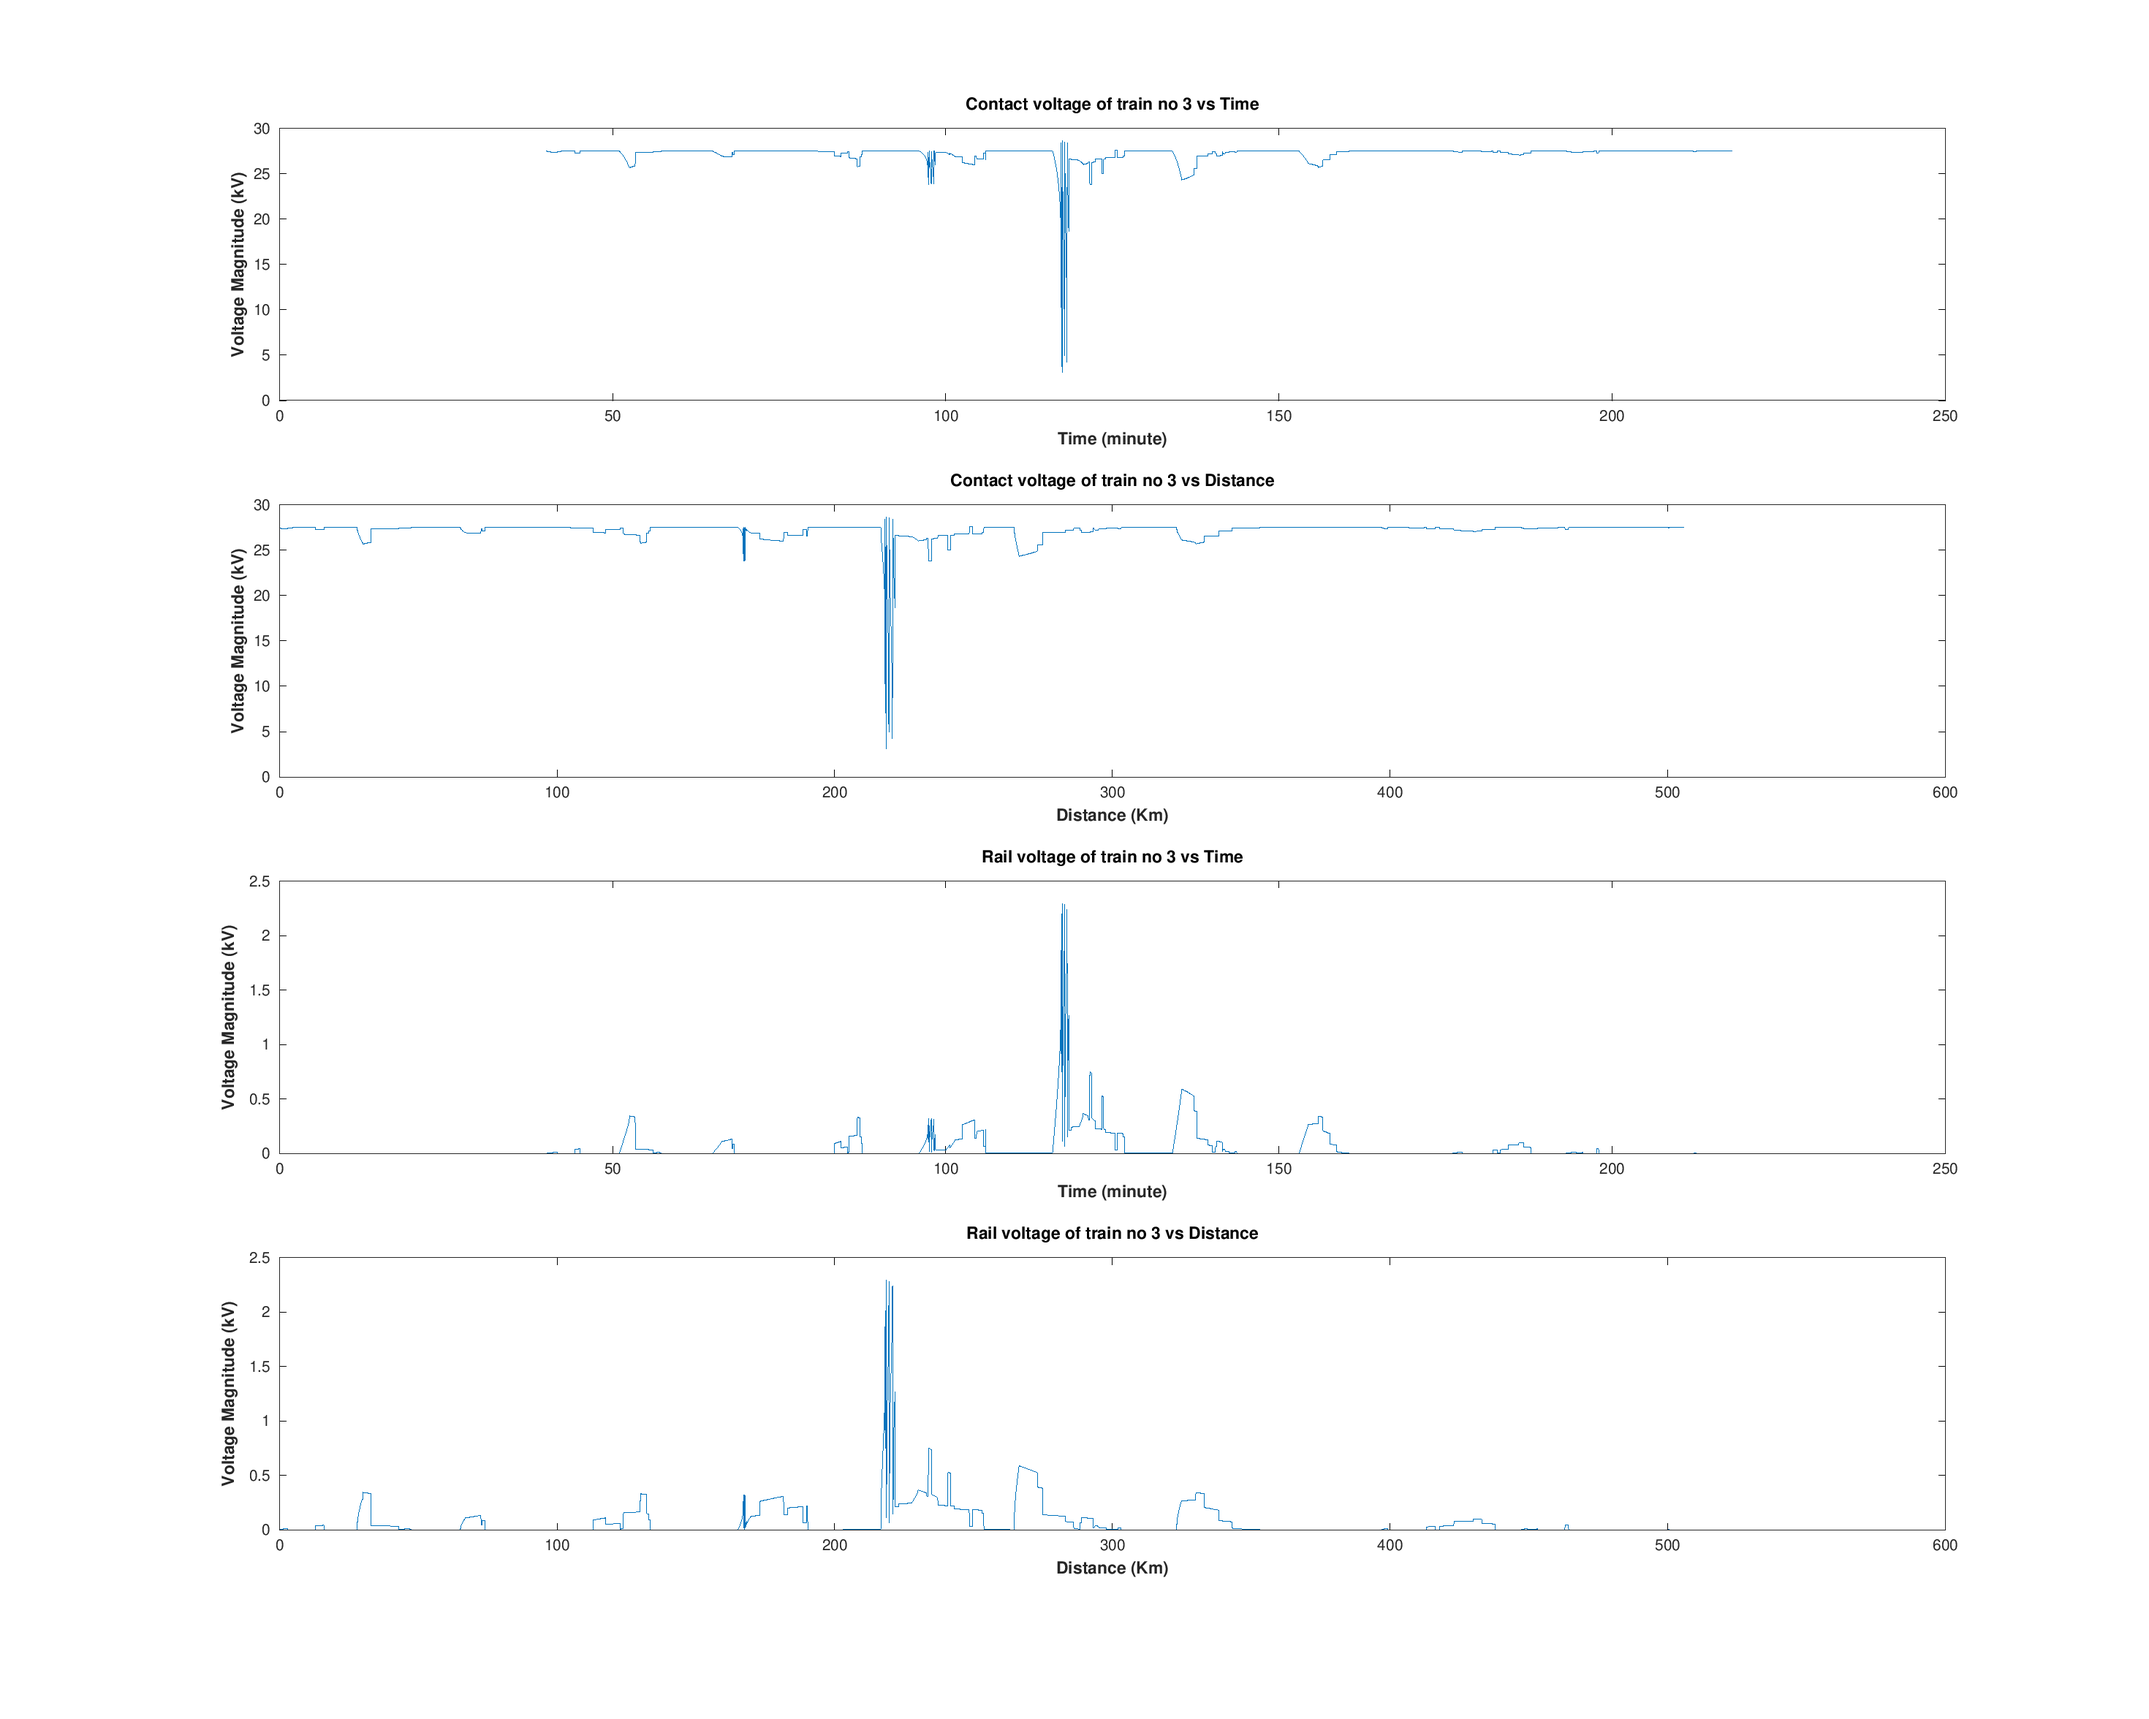
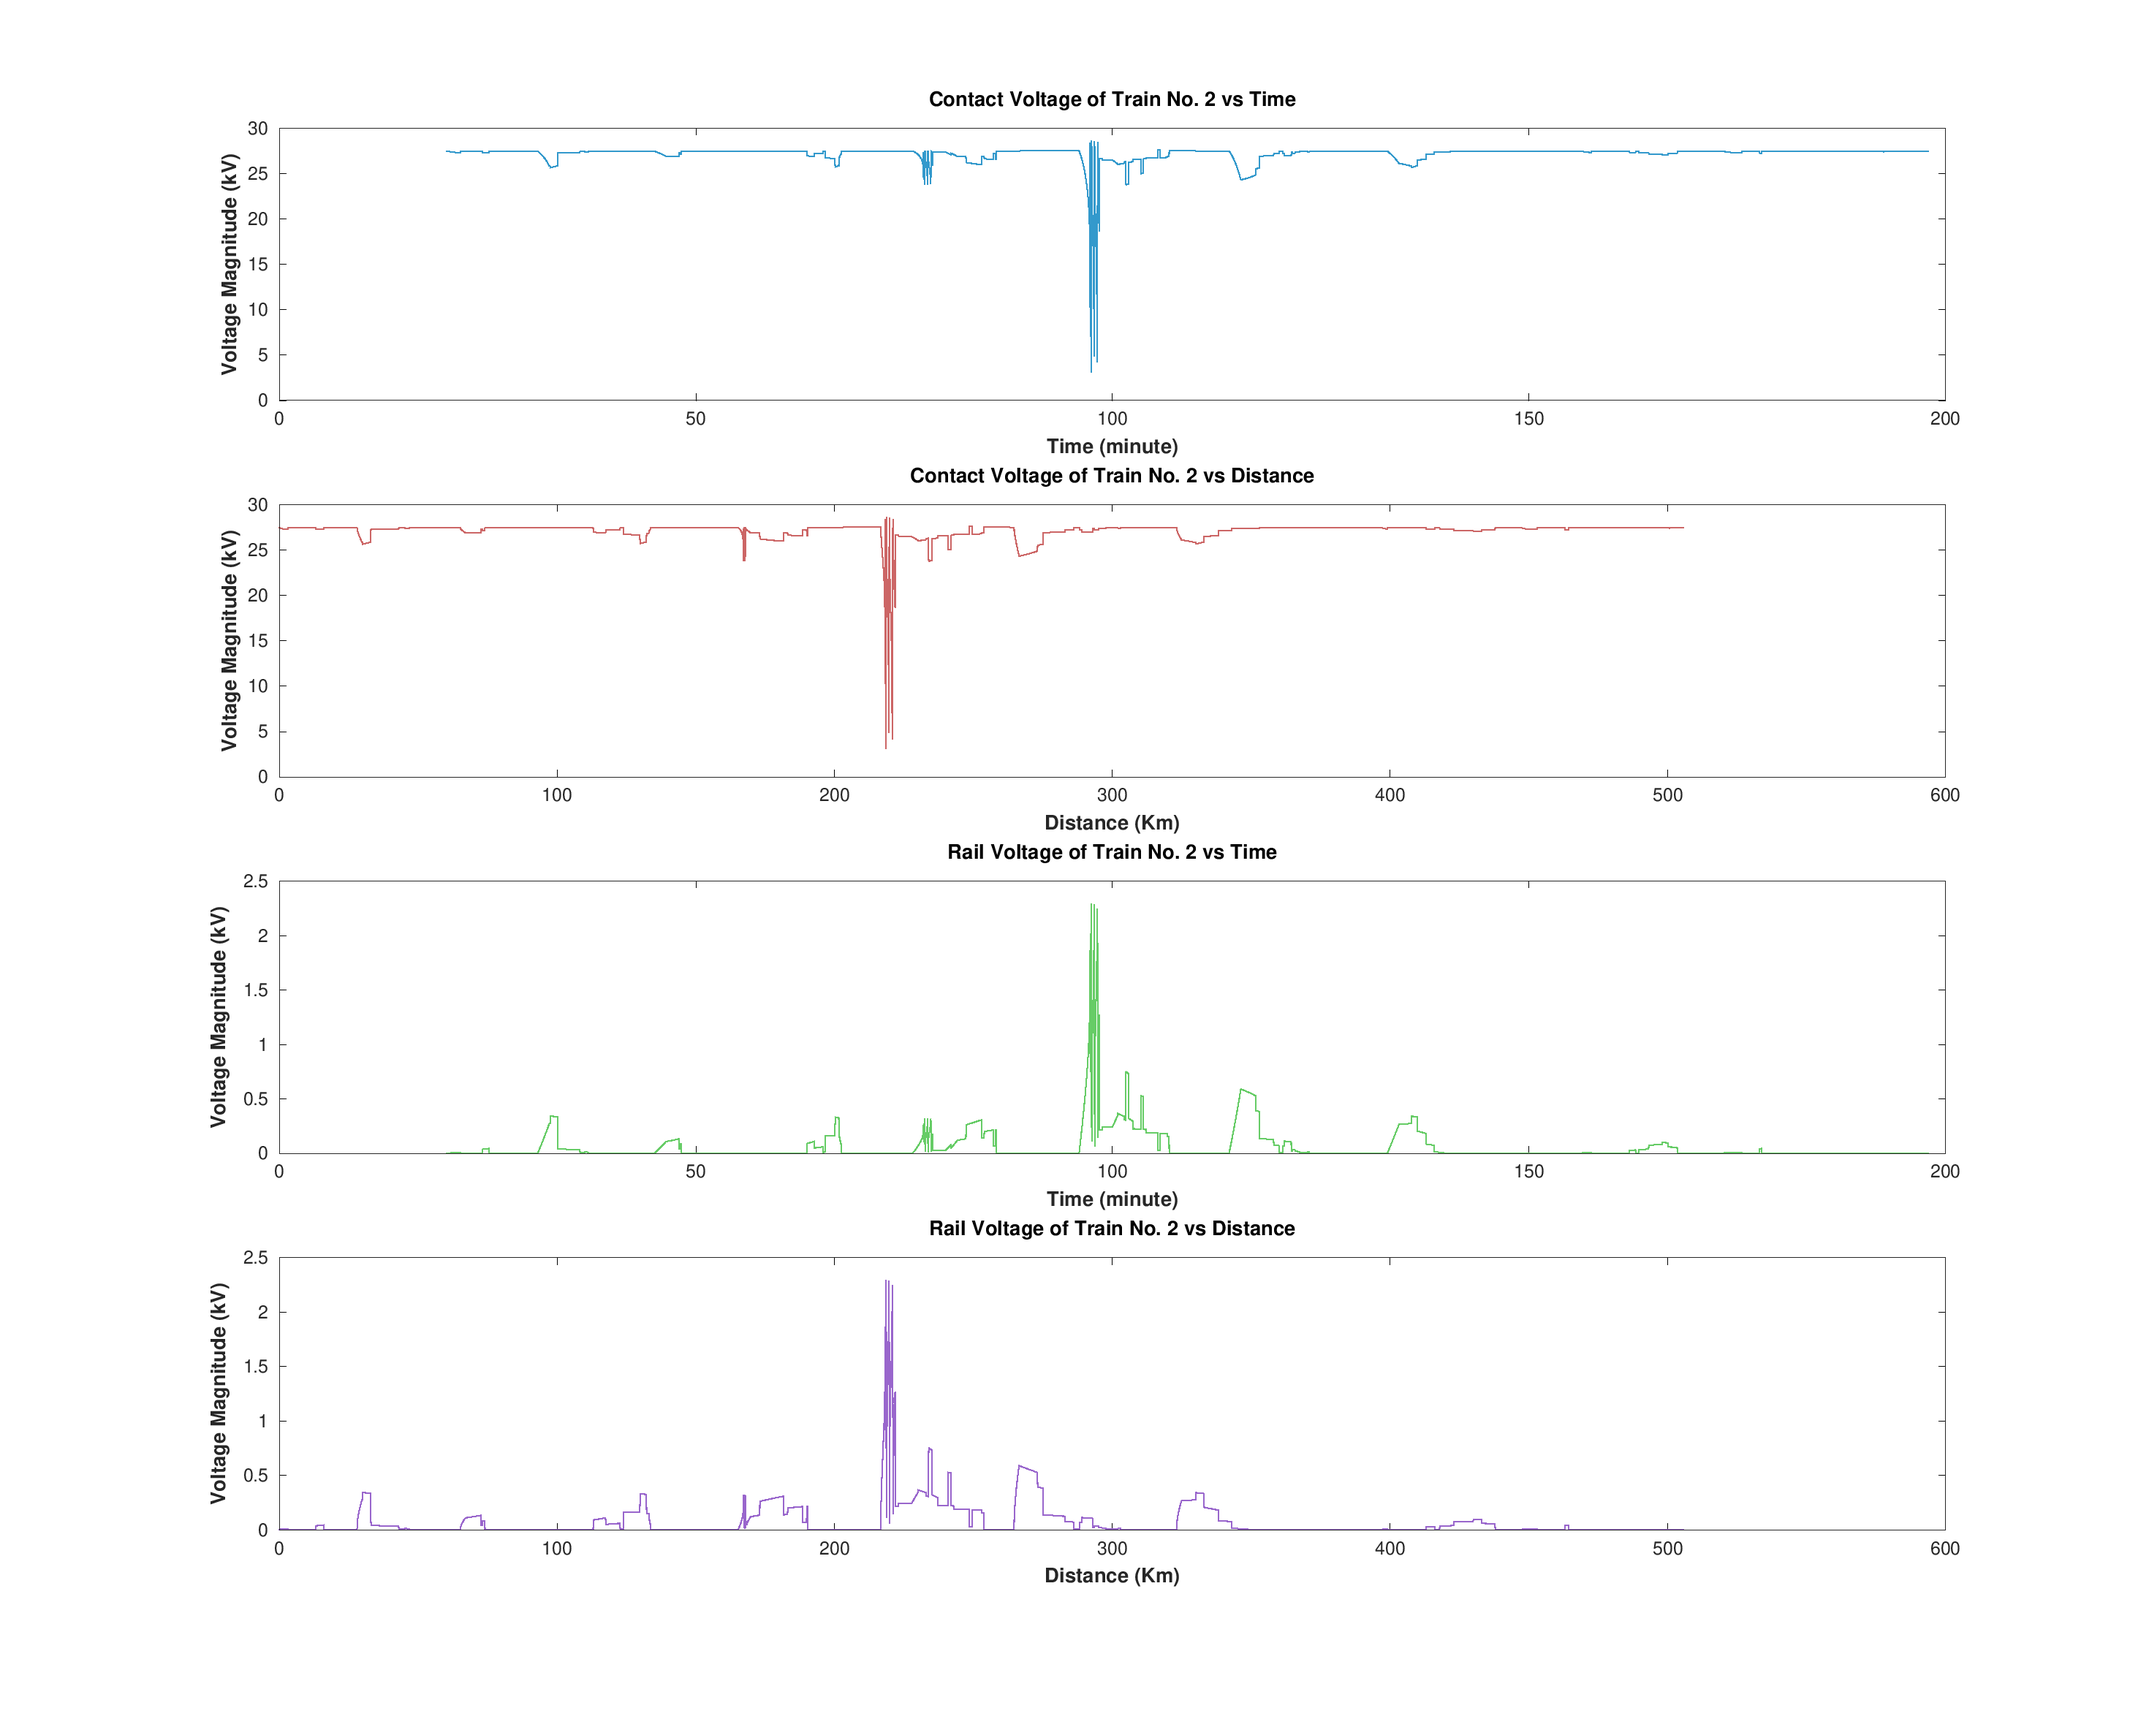
Improved Two Adjacent TSS Outage Graphs

diff --git a/two_TSS_outage/train_voltage_profile_train_number_adjacent_outage_load_file.m b/two_TSS_outage/train_voltage_profile_train_number_adjacent_outage_load_file.m
@@ -133,26 +133,45 @@ function train_voltage_profile_train_number_adjacent_outage_load_file(train_numb
     % Set the figure to match the screen size
     set(figureHandle, 'Position',  [100, 100, 2500, 2000]);
    
-    subplot(4,1,1)
-    plot(train1_time/60,voltage_train_abs);
-    title(['Contact voltage of train no ', int2str(train_number),' vs Time'])
-    xlabel('Time (minute)','FontWeight','bold')
-    ylabel('Voltage Magnitude (kV)','FontWeight','bold')
-    subplot(4,1,2)
-    plot(train_distance_from_start,voltage_train_abs);
-    title(['Contact voltage of train no ', int2str(train_number),' vs Distance'])
-    xlabel('Distance (Km)','FontWeight','bold')
-    ylabel('Voltage Magnitude (kV)','FontWeight','bold')
-    subplot(4,1,3)
-    plot(train1_time/60,voltage_train_rail_abs);
-    title(['Rail voltage of train no ', int2str(train_number),' vs Time'])
-    xlabel('Time (minute)','FontWeight','bold')
-    ylabel('Voltage Magnitude (kV)','FontWeight','bold')
-    subplot(4,1,4)
-    plot(train_distance_from_start,voltage_train_rail_abs);
-    title(['Rail voltage of train no ', int2str(train_number),' vs Distance'])
-    xlabel('Distance (Km)','FontWeight','bold')
-    ylabel('Voltage Magnitude (kV)','FontWeight','bold')
+    % Subplot 1: Contact voltage vs Time
+% Subplot 1: Contact voltage vs Time
+subplot(4, 1, 1);
+plot(train1_time / 60, voltage_train_abs, 'LineWidth', 2, 'Color', [0.2, 0.6, 0.8]);
+title(['Contact Voltage of Train No. ', int2str(train_number), ' vs Time'], 'FontWeight', 'bold', 'FontSize', 14);
+xlabel('Time (minute)', 'FontWeight', 'bold', 'FontSize', 12);
+ylabel('Voltage Magnitude (kV)', 'FontWeight', 'bold', 'FontSize', 12);
+set(gca, 'FontSize', 12); % Set axis tick font size
+grid off;
+
+% Subplot 2: Contact voltage vs Distance
+subplot(4, 1, 2);
+plot(train_distance_from_start, voltage_train_abs, 'LineWidth',2, 'Color', [0.8, 0.4, 0.4]);
+title(['Contact Voltage of Train No. ', int2str(train_number), ' vs Distance'], 'FontWeight', 'bold', 'FontSize', 14);
+xlabel('Distance (Km)', 'FontWeight', 'bold', 'FontSize', 12);
+ylabel('Voltage Magnitude (kV)', 'FontWeight', 'bold', 'FontSize', 12);
+set(gca, 'FontSize', 12); % Set axis tick font size
+grid off;
+
+% Subplot 3: Rail voltage vs Time
+subplot(4, 1, 3);
+plot(train1_time / 60, voltage_train_rail_abs, 'LineWidth', 2, 'Color', [0.4, 0.8, 0.4]);
+title(['Rail Voltage of Train No. ', int2str(train_number), ' vs Time'], 'FontWeight', 'bold', 'FontSize', 14);
+xlabel('Time (minute)', 'FontWeight', 'bold', 'FontSize', 12);
+ylabel('Voltage Magnitude (kV)', 'FontWeight', 'bold', 'FontSize', 12);
+set(gca, 'FontSize', 12); % Set axis tick font size
+grid off;
+
+% Subplot 4: Rail voltage vs Distance
+subplot(4, 1, 4);
+plot(train_distance_from_start, voltage_train_rail_abs, 'LineWidth', 2, 'Color', [0.6, 0.4, 0.8]);
+title(['Rail Voltage of Train No. ', int2str(train_number), ' vs Distance'], 'FontWeight', 'bold', 'FontSize', 14);
+xlabel('Distance (Km)', 'FontWeight', 'bold', 'FontSize', 12);
+ylabel('Voltage Magnitude (kV)', 'FontWeight', 'bold', 'FontSize', 12);
+set(gca, 'FontSize', 12); % Set axis tick font size
+grid off;
+
+% grid on;
+
     
     desired_filename = '../Plots_tTo/tTo_train_voltage.png';  % Replace 'desired_name' with your file name
     saveas(gcf, desired_filename);

diff --git a/two_TSS_outage/voltage_profile_design_adjecent_outage.m b/two_TSS_outage/voltage_profile_design_adjecent_outage.m
@@ -77,24 +77,35 @@ figureHandle = figure;
 screenSize = get(0, 'ScreenSize');
 
 % Set the figure to match the screen size
-set(figureHandle, 'Position', [100, 100, 1830, 1300]);
+set(figureHandle, 'Position', [100, 100, 1830, 1400]);
 
-subplot(3,1,1)
-plot((Voltage_distance_matrix_whole(:,1)/1000),abs(Voltage_distance_matrix_whole(:,2)));
-title('Contact wire Voltage magnitude')
-xlabel('Distance (kM)','FontWeight','bold')
-ylabel('Voltage magnitude (kV)','FontWeight','bold')
-%set(gca,'XTick',[5 55 105 155 205 255 305 355 405 455 505],'XTickLabel',{'TSS','TSS','TSS','TSS','TSS','TSS','TSS','TSS','TSS','TSS','TSS'})
- subplot(3,1,2)
-plot((Voltage_distance_matrix_whole(:,1)/1000),abs(Voltage_distance_matrix_whole(:,3)));
-title('Rail Voltage magnitude')
-xlabel('Distance (kM)','FontWeight','bold')
-ylabel('Voltage magnitude (kV)','FontWeight','bold')
-subplot(3,1,3)
-plot((Voltage_distance_matrix_whole(:,1)/1000),abs(Voltage_distance_matrix_whole(:,4)));
-title('Feeder wire Voltage magnitude')
-xlabel('Distance (kM)','FontWeight','bold')
-ylabel('Voltage magnitude (kV)','FontWeight','bold')
+% Subplot 1: Contact wire Voltage magnitude vs Distance
+subplot(3, 1, 1);
+plot((Voltage_distance_matrix_whole(:, 1) / 1000), abs(Voltage_distance_matrix_whole(:, 2)), 'LineWidth', 2, 'Color', [0.2, 0.6, 0.8]);
+title('Contact Wire Voltage Magnitude', 'FontWeight', 'bold', 'FontSize', 14);
+xlabel('Distance (km)', 'FontWeight', 'bold', 'FontSize', 12);
+ylabel('Voltage Magnitude (kV)', 'FontWeight', 'bold', 'FontSize', 12);
+set(gca, 'FontSize', 12); % Set axis tick font size
+grid off;
+
+% Subplot 2: Rail Voltage magnitude vs Distance
+subplot(3, 1, 2);
+plot((Voltage_distance_matrix_whole(:, 1) / 1000), abs(Voltage_distance_matrix_whole(:, 3)), 'LineWidth', 2, 'Color', [0.8, 0.4, 0.4]);
+title('Rail Voltage Magnitude', 'FontWeight', 'bold', 'FontSize', 14);
+xlabel('Distance (km)', 'FontWeight', 'bold', 'FontSize', 12);
+ylabel('Voltage Magnitude (kV)', 'FontWeight', 'bold', 'FontSize', 12);
+set(gca, 'FontSize', 12); % Set axis tick font size
+grid off;
+
+% Subplot 3: Feeder wire Voltage magnitude vs Distance
+subplot(3, 1, 3);
+plot((Voltage_distance_matrix_whole(:, 1) / 1000), abs(Voltage_distance_matrix_whole(:, 4)), 'LineWidth', 2, 'Color', [0.6, 0.4, 0.8]);
+title('Feeder Wire Voltage Magnitude', 'FontWeight', 'bold', 'FontSize', 14);
+xlabel('Distance (km)', 'FontWeight', 'bold', 'FontSize', 12);
+ylabel('Voltage Magnitude (kV)', 'FontWeight', 'bold', 'FontSize', 12);
+set(gca, 'FontSize', 12); % Set axis tick font size
+grid off;
+
 
 desired_filename = '../Plots_tTo/tTo_voltage_profile_full_track.png';  % Replace 'desired_name' with your file name
 saveas(gcf, desired_filename);

diff --git a/two_TSS_outage/TSS_MVA_voltage_unbalance_profile_plot_outage_load_txt.m b/two_TSS_outage/TSS_MVA_voltage_unbalance_profile_plot_outage_load_txt.m
@@ -42,20 +42,20 @@ function TSS_MVA_voltage_unbalance_profile_plot_outage_load_txt(nn_track,TSS,N_T
 
     if nn_track<N_TSS_O
         nn_track_name=nn_track;
-        plot(tt_time/60,s_apprant_power_MVA_mag(:,nn_track))
+        plot(tt_time/60,s_apprant_power_MVA_mag(:,nn_track), 'LineWidth', 2, 'Color', [0.2, 0.6, 0.8])
     elseif n_track==N_TSS_O(1)|| n_track==N_TSS_O(2)
         outage_TSS_condition=zeros(length(s_apprant_power_MVA_mag(:,1)),1);
         nn_track_name=nn_track;
-        plot(tt_time/60,outage_TSS_condition(:,1));
+        plot(tt_time/60,outage_TSS_condition(:,1), 'LineWidth', 2, 'Color', [0.2, 0.6, 0.8]);
     else
         nn_track=nn_track-1
         nn_track_name=nn_track+1;
-        plot(tt_time/60,s_apprant_power_MVA_mag(:,nn_track))
+        plot(tt_time/60,s_apprant_power_MVA_mag(:,nn_track), 'LineWidth', 2, 'Color', [0.2, 0.6, 0.8])
     end
 
-    title(['MVA profile of TSS number ',num2str(nn_track_name)])
-    xlabel('Time (minute)','FontWeight','bold')
-    ylabel('MVA','FontWeight','bold')
+    title(['MVA profile of TSS number ',num2str(nn_track_name)], 'FontSize', 14)
+    xlabel('Time (minute)','FontWeight','bold', 'FontSize', 12)
+    ylabel('MVA','FontWeight','bold', 'FontSize', 12)
 
     desired_filename = '../Plots_tTo/tTo_TSS_MVA_voltage_unbalance.png';
     saveas(gcf, desired_filename);

diff --git a/Frontend/pages/tTo_voltage_profile_full_track.py b/Frontend/pages/tTo_voltage_profile_full_track.py
@@ -40,7 +40,7 @@ def main():
     add_vertical_space(1)
     track_time_1 = st.number_input("Enter the time instant (in second) for getting voltage profile along the track", min_value=0)
     x_reso = st.number_input("Enter the distance resolution (in meter) for voltage profile along the track", min_value=0)
-    if(st.button("Show")):
+    if(st.button("Show Voltage Profile")):
         oc.eval("setenv('GNUTERM', 'gnuplot')")
         
         AT = tTo_workspace['AT']
